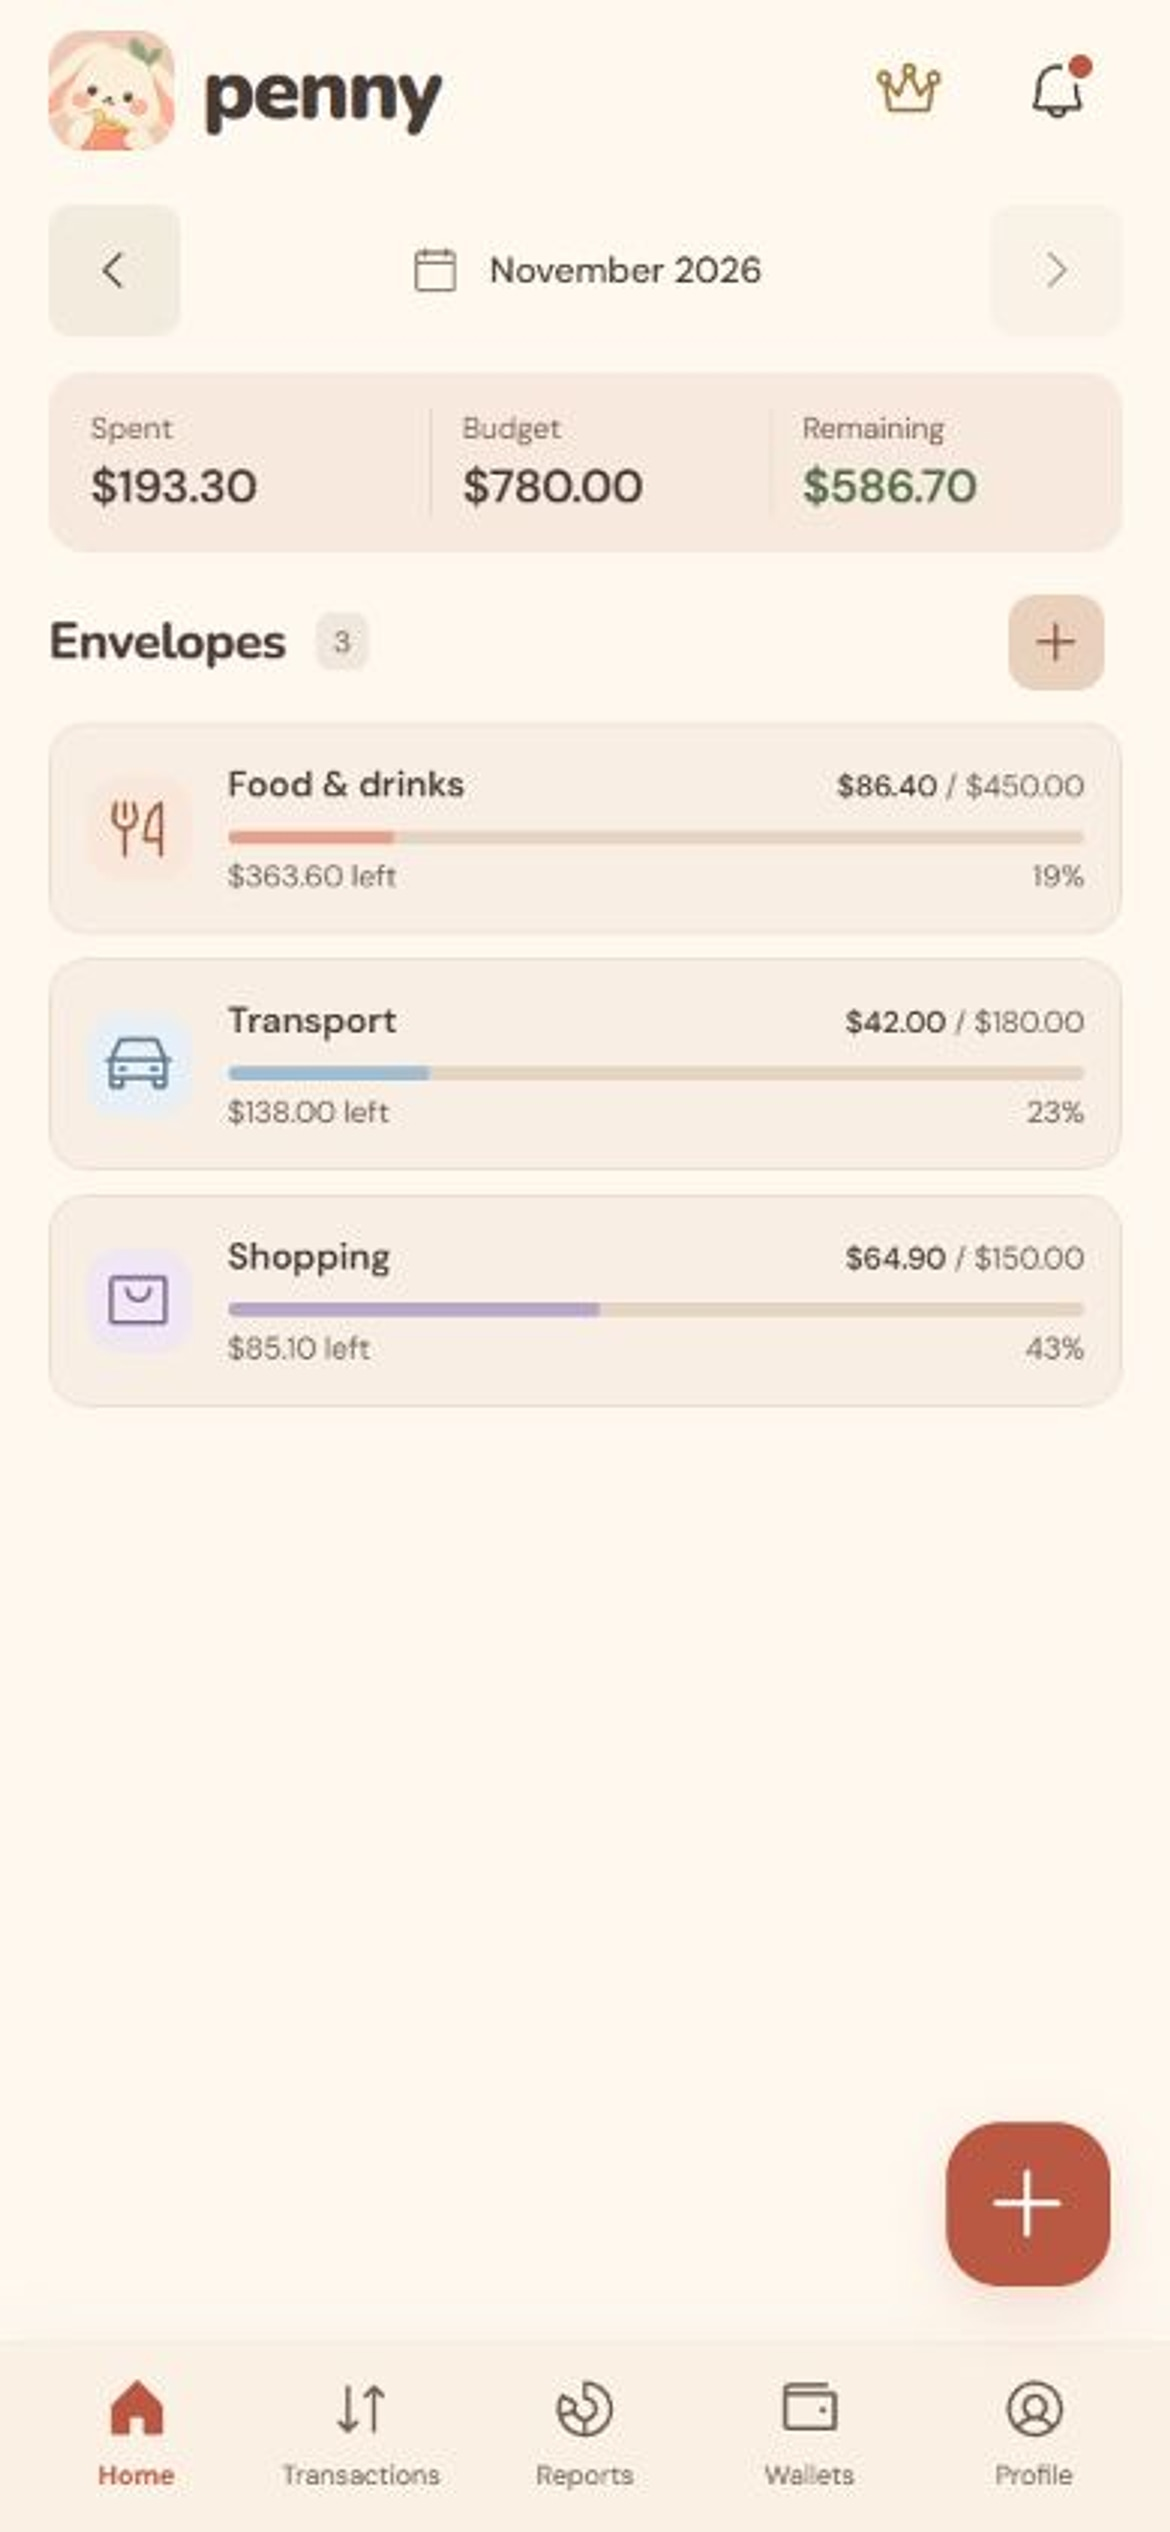
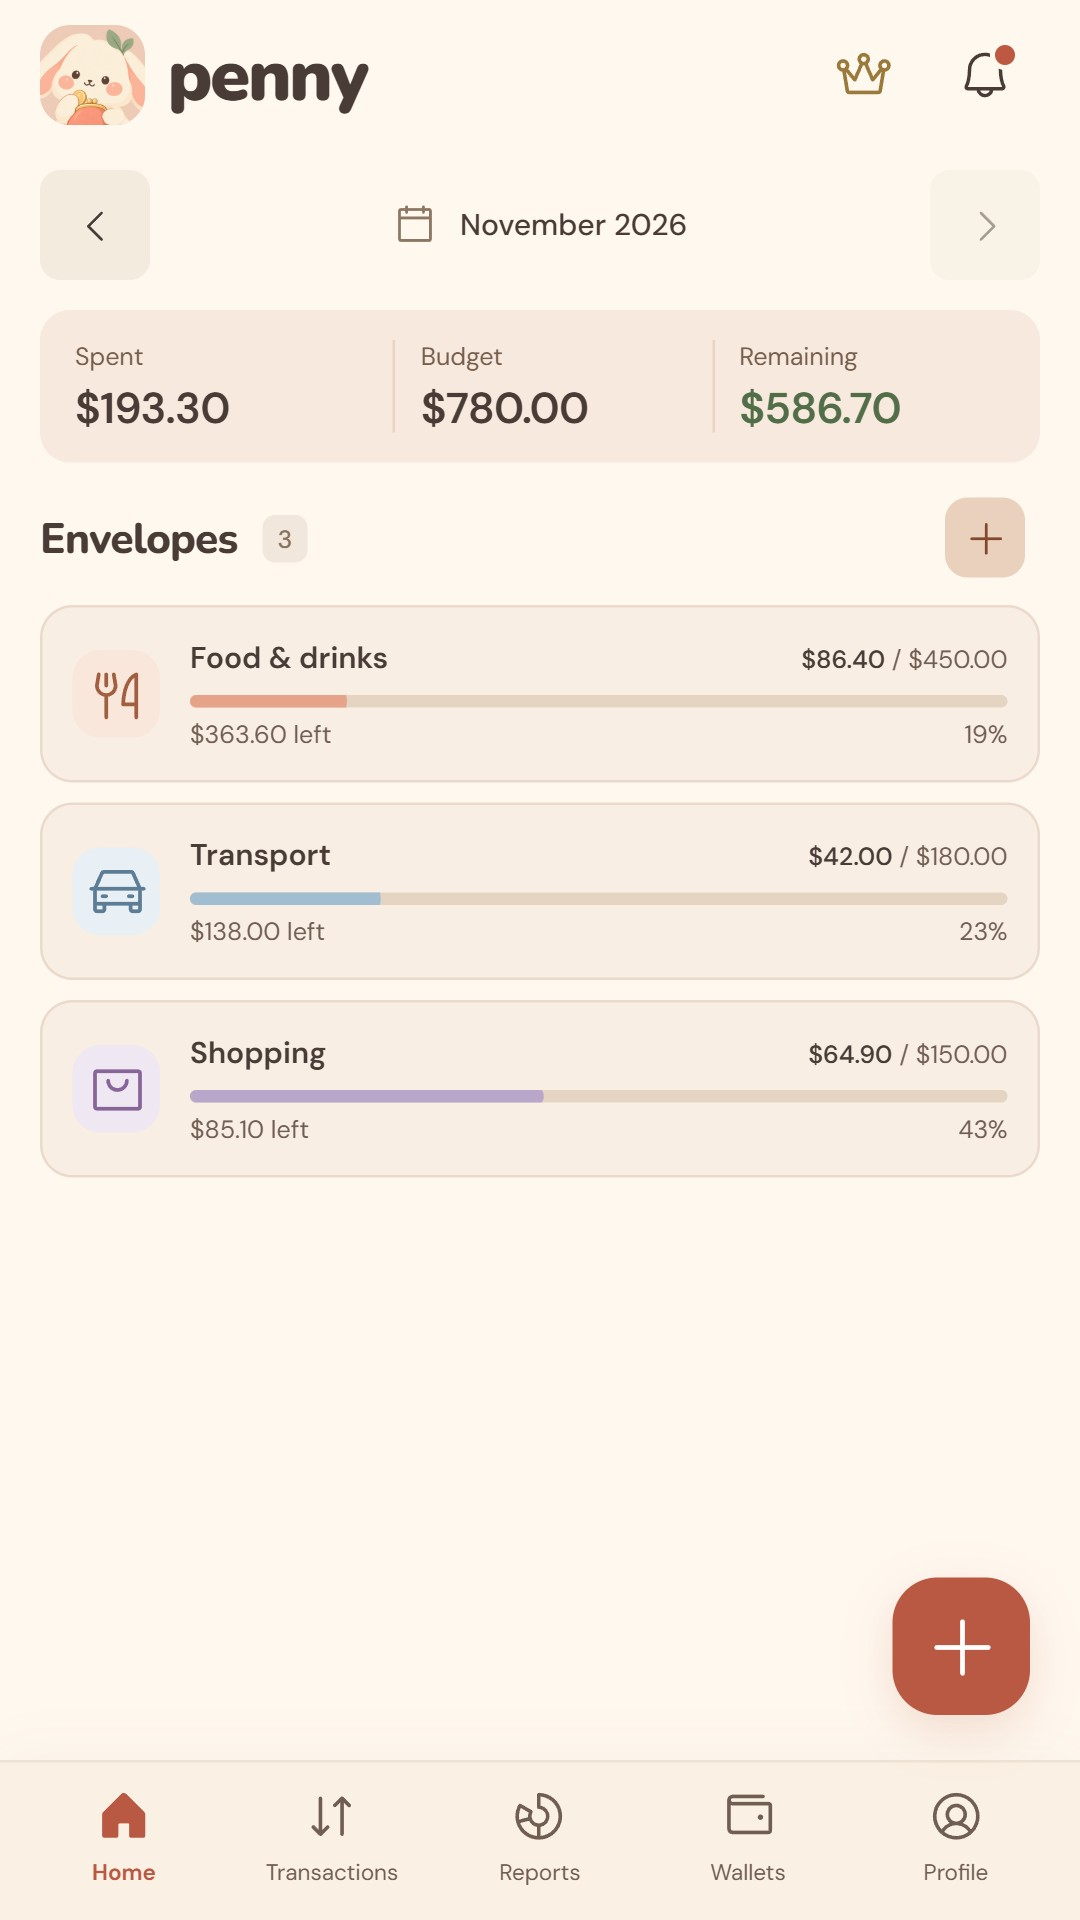
Refresh Play Store images to compliant formats

diff --git a/docs/release-status.md b/docs/release-status.md
@@ -6,7 +6,7 @@ Penny has a signed Android App Bundle, a saved Play Store listing and an interna
 
 - 62 unit/database tests and 22 browser flows pass on 12 November 2026. The browser suite covered first-run setup, expenses and income, wallets, budgets, imports and exports, notifications UI, large numbers at 320 px, and the Premium sign-in gate. The production web build and Android sync pass. The browser suite now starts its own local server; it does not depend on the preview server.
 - The latest bundle is at android/app/build/outputs/bundle/release/app-release.aab (built 12 November 2026). The signature checker reports “jar verified.” Google Play accepted it as version 1 (1.0), target SDK 36, in an **internal testing draft** named “Penny 1.0 internal test.” The upload key and signing settings are ignored by Git; back them up securely before publishing any release.
-- The Play Console app exists as app.penny.expenses. Its English listing contains the description, Penny icon, feature graphic and four genuine app-screen captures. Google Play accepted the AI asset labels and saved the listing in Publishing overview, ready to send for review. The app-level trader status and Penny Terms of Service URL are saved there too. No release has been published or sent for review.
+- The Play Console app exists as app.penny.expenses. Its English listing contains the description, Penny icon, feature graphic and four genuine app-screen captures. Google Play accepted the AI asset labels and saved the listing in Publishing overview. A local asset audit found those phone captures exceeded Google's 2:1 dimension limit, so five fresh 1080 × 1920 app captures and a 24-bit feature graphic were prepared in [release-assets](../release-assets/README.md) on 12 November. The new files are **not yet uploaded** because Play Console browser access is denied. The app-level trader status and Penny Terms of Service URL are saved. No release has been published or sent for review.
 - Four penny_ database migrations and four penny- Edge Functions are live in Supabase project vcfalijtdakuyyfbdghy, shared with another app. Penny tables use row-level security. Penny deletion removes Penny data while leaving the shared sign-in identity and other-app data intact.
 - Published [privacy](https://sites.google.com/view/penny-rzstudios/privacy-policy), [terms](https://sites.google.com/view/penny-rzstudios/terms-conditions), and [deletion](https://sites.google.com/view/penny-rzstudios/account-deletion) pages are linked in Penny and Play Console where applicable. The public site homepage says “Coming soon to Google Play.”
 - Supabase accepts an email OTP request. Inbox delivery, code verification, Android callback and Google sign-in have not been proven end to end. Penny's native sign-in passes app.penny.expenses://auth/callback explicitly; the Supabase redirect allow-list includes it. The shared project's fallback Site URL is still localhost, so a live native sign-in test is required. A Penny Google Cloud project and Web OAuth client were created on 12 November; its only redirect URI is the Penny Supabase Auth callback. The client secret is not stored in this repository.

diff --git a/release-assets/README.md b/release-assets/README.md
@@ -1,0 +1,17 @@
+# Penny Google Play graphics
+
+Upload these files in Play Console → Grow users → Store presence → Main store listing → Graphics.
+
+| Placement | File | Format |
+| --- | --- | --- |
+| App icon | `play-store-icon.png` | 512 × 512 PNG with alpha |
+| Feature graphic | `feature-graphic.png` | 1024 × 500 PNG without alpha |
+| Phone screenshot 1 | `screenshot-home.jpg` | 1080 × 1920 JPEG |
+| Phone screenshot 2 | `screenshot-transactions.jpg` | 1080 × 1920 JPEG |
+| Phone screenshot 3 | `screenshot-reports.jpg` | 1080 × 1920 JPEG |
+| Phone screenshot 4 | `screenshot-wallets.jpg` | 1080 × 1920 JPEG |
+| Phone screenshot 5 | `screenshot-premium.jpg` | 1080 × 1920 JPEG |
+
+The screenshots are captures of the actual app with illustrative ledger entries; they do not contain customer data. They can be reproduced with `node scripts/capture-store-screenshots.mjs` while the Vite server runs at `http://127.0.0.1:5174/`. Review Google Play's asset-specific AI labeling prompts for the mascot artwork. The earlier, taller screenshot files were replaced locally on 12 November 2026; the live Play listing still needs these refreshed files uploaded.
+
+Specifications: [Google Play preview assets](https://support.google.com/googleplay/android-developer/answer/9866151), [AI asset declarations](https://support.google.com/googleplay/android-developer/answer/17262077).
